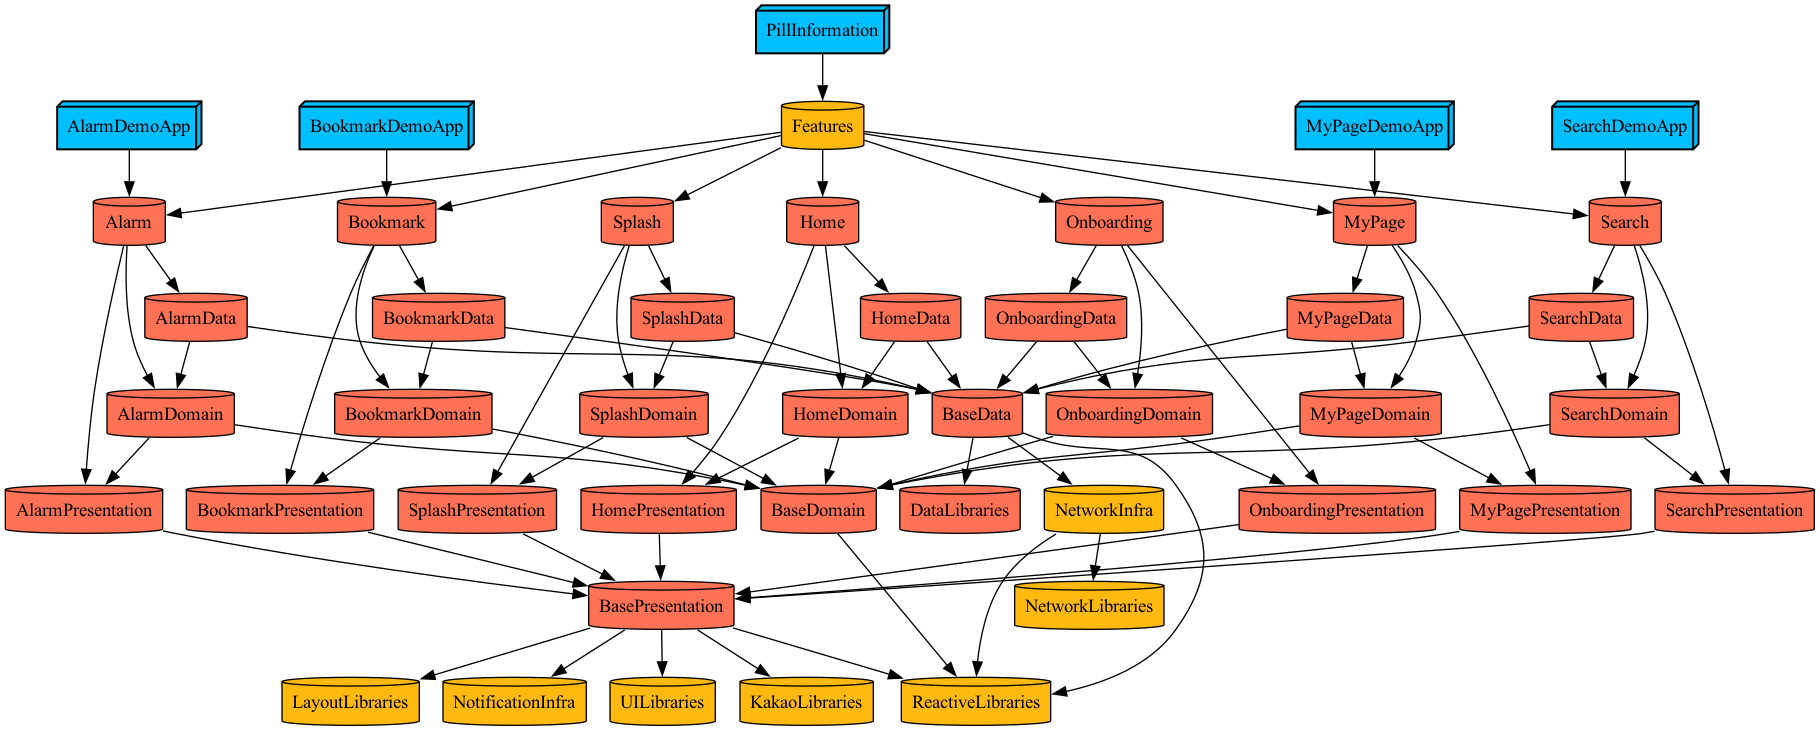
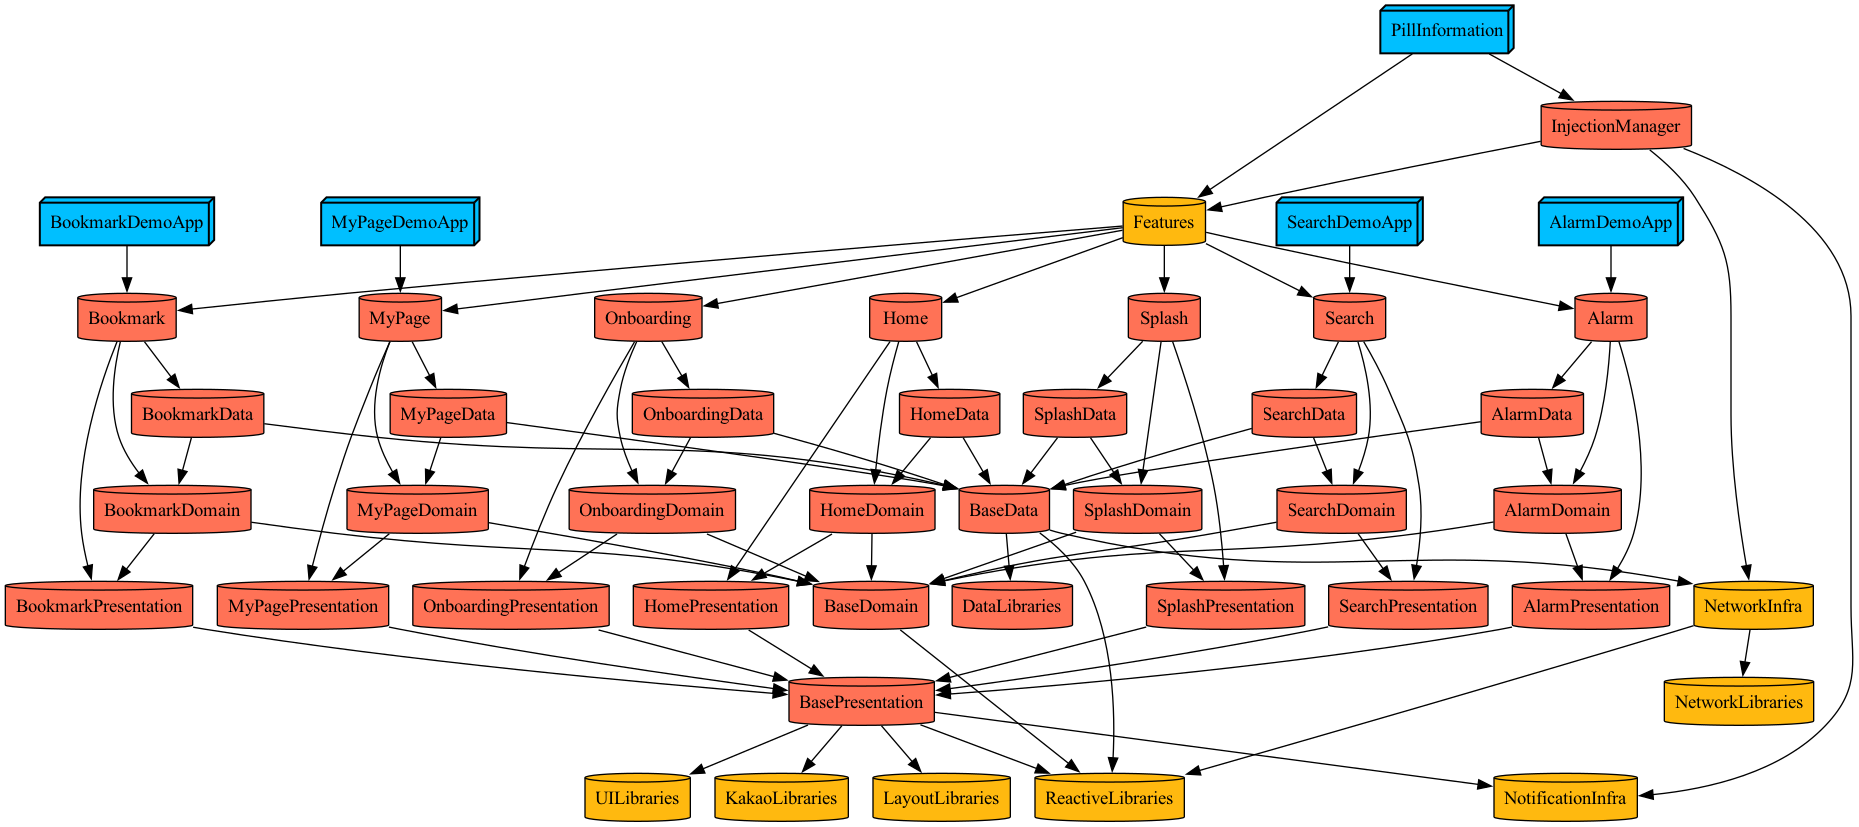
✨ Injection Manager project

diff --git a/Projects/InjectionManager/Sources/AppConfiguration.swift b/Projects/InjectionManager/Sources/AppConfiguration.swift
@@ -1,14 +1,14 @@
 //
 //  AppConfiguration.swift
-//  Application
+//  InjectionManager
 //
-//  Created by JunHyeok Lee on 2/13/24.
+//  Created by JunHyoek Lee on 8/21/24.
 //  Copyright © 2024 com.junhyeok.PillInformation. All rights reserved.
 //
 
 import Foundation
 
-final class AppConfiguration {
+public final class AppConfiguration {
     private let appConfigurations: [String: String] = {
         guard let appConfigurations = Bundle.main.infoDictionary?["AppConfigurations"] as? [String: String] else {
             fatalError("AppConfigurations must not be empty in plist")
@@ -16,59 +16,60 @@ final class AppConfiguration {
         return appConfigurations
     }()
     
-    lazy var apiBaseURL: String = {
+    public lazy var apiBaseURL: String = {
         guard let apiBaseURL = appConfigurations["API_BASE_URL"] else {
             fatalError("API_BASE_URL must not be empty in plist")
         }
         return apiBaseURL
     }()
     
-    lazy var medicineApiURL: String = {
+    public lazy var medicineApiURL: String = {
         guard let medicineApiURL = appConfigurations["MEDICINE_API_URL"] else {
             fatalError("MEDICINE_API_URL must not be empty in plist")
         }
         return medicineApiURL
     }()
     
-    lazy var medicineApiKey: String = {
+    public lazy var medicineApiKey: String = {
         guard let medicineApiKey = appConfigurations["MEDICINE_API_KEY"] else {
             fatalError("MEDICINE_API_KEY must not be empty in plist")
         }
         return medicineApiKey
     }()
     
-    lazy var medicineInfoApiURL: String = {
+    public lazy var medicineInfoApiURL: String = {
         guard let medicineInfoApiURL = appConfigurations["MEDICINE_INFO_API_URL"] else {
             fatalError("MEDICINE_INFO_API_URL must not be empty in plist")
         }
         return medicineInfoApiURL
     }()
     
-    lazy var medicineInfoApiKey: String = {
+    public lazy var medicineInfoApiKey: String = {
         guard let medicineInfoApiKey = appConfigurations["MEDICINE_INFO_API_KEY"] else {
             fatalError("MEDICINE_INFO_API_KEY must not be empty in plist")
         }
         return medicineInfoApiKey
     }()
     
-    lazy var kakaoNativeAppKey: String = {
+    public lazy var kakaoNativeAppKey: String = {
         guard let kakaoNativeAppKey = appConfigurations["KAKAO_NATIVE_APP_KEY"] else {
             fatalError("KAKAO_NATIVE_APP_KEY must not be empty in plist")
         }
         return kakaoNativeAppKey
     }()
     
-    lazy var isShowAlarmTab: Bool = {
+    public lazy var isShowAlarmTab: Bool = {
         guard let isShowAlarmTabString = appConfigurations["IS_SHOW_ALARM_TAB"] else {
             fatalError("IS_SHOW_ALARM_TAB must not be empty in plist")
         }
         return Bool(isShowAlarmTabString) ?? false
     }()
     
-    lazy var isShowAlarmPrivacy: Bool = {
+    public lazy var isShowAlarmPrivacy: Bool = {
         guard let isShowAlarmPrivacyString = appConfigurations["IS_SHOW_ALARM_PRIVACY"] else {
             fatalError("IS_SHOW_ALARM_PRIVACY must not be empty in plist")
         }
         return Bool(isShowAlarmPrivacyString) ?? false
     }()
 }
+

diff --git a/Projects/InjectionManager/Sources/DIContainer/AppDIContainer.swift b/Projects/InjectionManager/Sources/DIContainer/AppDIContainer.swift
@@ -1,8 +1,8 @@
 //
 //  AppDIContainer.swift
-//  Application
+//  InjectionManager
 //
-//  Created by JunHyeok Lee on 1/25/24.
+//  Created by JunHyoek Lee on 8/21/24.
 //  Copyright © 2024 com.junhyeok.PillInformation. All rights reserved.
 //
 
@@ -10,16 +10,20 @@ import Foundation
 
 import NetworkInfra
 
-final class AppDIContainer {
-    lazy var appConfiguration = AppConfiguration()
+public final class AppDIContainer {
+    public lazy var appConfiguration = AppConfiguration()
     
-    lazy var networkManager: NetworkManager = {
+    private lazy var networkManager: NetworkManager = {
         return NetworkManager(withTest: false,
                               withFail: false,
                               baseURL: appConfiguration.apiBaseURL)
     }()
     
-    func makeMainSceneDIContainer() -> MainSceneDIContainer {
+    public init() {
+        
+    }
+    
+    public func makeMainSceneDIContainer() -> MainSceneDIContainer {
         let dependencies = MainSceneDIContainer.Dependencies(
             networkManager: networkManager,
             isShowAlarmPrivacy: appConfiguration.isShowAlarmPrivacy
@@ -27,12 +31,12 @@ final class AppDIContainer {
         return MainSceneDIContainer(dependencies: dependencies)
     }
     
-    func makeSplashSceneDIContainer() -> SplashSceneDIContainer {
+    public func makeSplashSceneDIContainer() -> SplashSceneDIContainer {
         let dependencies = SplashSceneDIContainer.Dependencies(networkManager: networkManager)
         return SplashSceneDIContainer(dependencies: dependencies)
     }
     
-    func makeOnboardingSceneDIContainer() -> OnboardingSceneDIContainer {
+    public func makeOnboardingSceneDIContainer() -> OnboardingSceneDIContainer {
         let dependencies = OnboardingSceneDIContainer.Dependencies(
             networkManager: networkManager,
             isShowAlarmPrivacy: appConfiguration.isShowAlarmPrivacy

diff --git a/Projects/InjectionManager/Sources/DIContainer/OnboardingSceneDIContainer.swift b/Projects/InjectionManager/Sources/DIContainer/OnboardingSceneDIContainer.swift
@@ -1,8 +1,8 @@
 //
 //  OnboardingSceneDIContainer.swift
-//  PillInformation
+//  InjectionManager
 //
-//  Created by JunHyeok Lee on 3/28/24.
+//  Created by JunHyoek Lee on 8/21/24.
 //  Copyright © 2024 com.junhyeok.PillInformation. All rights reserved.
 //
 
@@ -12,7 +12,7 @@ import Features
 import NetworkInfra
 import Onboarding
 
-final class OnboardingSceneDIContainer {
+public final class OnboardingSceneDIContainer {
     struct Dependencies {
         let networkManager: NetworkManager
         let isShowAlarmPrivacy: Bool
@@ -30,7 +30,7 @@ final class OnboardingSceneDIContainer {
         ))
     }
     
-    func makeOnboardingCoordinator(navigationController: UINavigationController) -> OnboardingCoordinator {
+    public func makeOnboardingCoordinator(navigationController: UINavigationController) -> OnboardingCoordinator {
         return DefaultOnboardingCoordinator(
             navigationController: navigationController,
             dependencies: onboardingDIContainer

diff --git a/Projects/InjectionManager/Sources/DIContainer/SplashSceneDIContainer.swift b/Projects/InjectionManager/Sources/DIContainer/SplashSceneDIContainer.swift
@@ -1,8 +1,8 @@
 //
 //  SplashSceneDIContainer.swift
-//  PillInformation
+//  InjectionManager
 //
-//  Created by JunHyeok Lee on 4/12/24.
+//  Created by JunHyoek Lee on 8/21/24.
 //  Copyright © 2024 com.junhyeok.PillInformation. All rights reserved.
 //
 
@@ -12,7 +12,7 @@ import Features
 import NetworkInfra
 import Splash
 
-final class SplashSceneDIContainer {
+public final class SplashSceneDIContainer {
     struct Dependencies {
         let networkManager: NetworkManager
     }
@@ -26,7 +26,7 @@ final class SplashSceneDIContainer {
         self.splashDIContainer = SplashDIContainer(dependencies: .init(networkManager: dependencies.networkManager))
     }
     
-    func makeSplashCoordinator(navigationController: UINavigationController) -> SplashCoordinator
+    public func makeSplashCoordinator(navigationController: UINavigationController) -> SplashCoordinator
     {
         return DefaultSplashCoordinator(
             navigationController: navigationController,

diff --git a/Projects/InjectionManager/Sources/DIContainer/MainSceneDIContainer.swift b/Projects/InjectionManager/Sources/DIContainer/MainSceneDIContainer.swift
@@ -1,8 +1,8 @@
 //
 //  MainSceneDIContainer.swift
-//  PillInformation
+//  InjectionManager
 //
-//  Created by JunHyeok Lee on 3/20/24.
+//  Created by JunHyoek Lee on 8/21/24.
 //  Copyright © 2024 com.junhyeok.PillInformation. All rights reserved.
 //
 
@@ -16,7 +16,7 @@ import Search
 import Alarm
 import MyPage
 
-final class MainSceneDIContainer {
+public final class MainSceneDIContainer {
     
     struct Dependencies {
         let networkManager: NetworkManager
@@ -51,7 +51,7 @@ final class MainSceneDIContainer {
         ))
     }
     
-    func makeTabBarCoordinator(tabBarController: UITabBarController,
+    public func makeTabBarCoordinator(tabBarController: UITabBarController,
                                isShowAlarmTab: Bool) -> TabBarCoordinator {
         return DefaultTabBarCoordinator(
             tabBarController: tabBarController,

diff --git a/Tuist/ProjectDescriptionHelpers/Dependencies/Dependency+Project.swift b/Tuist/ProjectDescriptionHelpers/Dependencies/Dependency+Project.swift
@@ -10,6 +10,7 @@ import ProjectDescription
 
 public enum ProjectLayer: String {
     case Application
+    case InjectionManager
     case Feature
     case Presentation
     case Domain
@@ -21,6 +22,7 @@ public enum ProjectLayer: String {
 // MARK: - Projects
 extension TargetDependency {
     public struct Project {
+        public struct InjectionManager { }
         public struct Feature {
             public struct Presentation { }
             public struct Domain { }
@@ -29,6 +31,11 @@ extension TargetDependency {
         public struct Infrastructure { }
         public struct LibraryManager { }
     }
+}
+
+// MARK: - InjectionManager
+public extension TargetDependency.Project.InjectionManager {
+    static let InjectionManager: TargetDependency = .project(name: "InjectionManager")
 }
 
 // MARK: - Feature

diff --git a/Projects/InjectionManager/Project.swift b/Projects/InjectionManager/Project.swift
@@ -1,0 +1,21 @@
+//
+//  Project.swift
+//  ProjectDescriptionHelpers
+//
+//  Created by JunHyoek Lee on 8/21/24.
+//
+
+import Foundation
+
+import ProjectDescription
+import ProjectDescriptionHelpers
+
+let project: Project = .project(
+    name: "InjectionManager",
+    product: .staticFramework,
+    dependencies: [
+        .Project.Infrastructure.Network,
+        .Project.Infrastructure.Notification,
+        .Project.Feature.Features
+    ]
+)

diff --git a/Projects/Application/Project.swift b/Projects/Application/Project.swift
@@ -45,7 +45,8 @@ let targets: [Target] = [
         entitlements: "../../SupportingFiles/PillInformation.entitlements",
         scripts: scripts,
         dependencies: [
-            .Project.Feature.Features
+            .Project.Feature.Features,
+            .Project.InjectionManager.InjectionManager
         ],
         settings: .settings(
             base: [

diff --git a/Projects/InjectionManager/Tests/Tests.swift b/Projects/InjectionManager/Tests/Tests.swift
@@ -1,0 +1,8 @@
+//
+//  Tests.swift
+//  ProjectDescriptionHelpers
+//
+//  Created by JunHyoek Lee on 8/21/24.
+//
+
+import Foundation

diff --git a/Projects/Application/Sources/AppFlowCoordinator.swift b/Projects/Application/Sources/AppFlowCoordinator.swift
@@ -8,6 +8,7 @@
 
 import UIKit
 
+import InjectionManager
 import Features
 
 final class AppFlowCoordinator {

diff --git a/Projects/Application/Sources/SceneDelegate.swift b/Projects/Application/Sources/SceneDelegate.swift
@@ -8,6 +8,7 @@
 
 import UIKit
 
+import InjectionManager
 import KakaoLibraries
 import NotificationInfra
 
